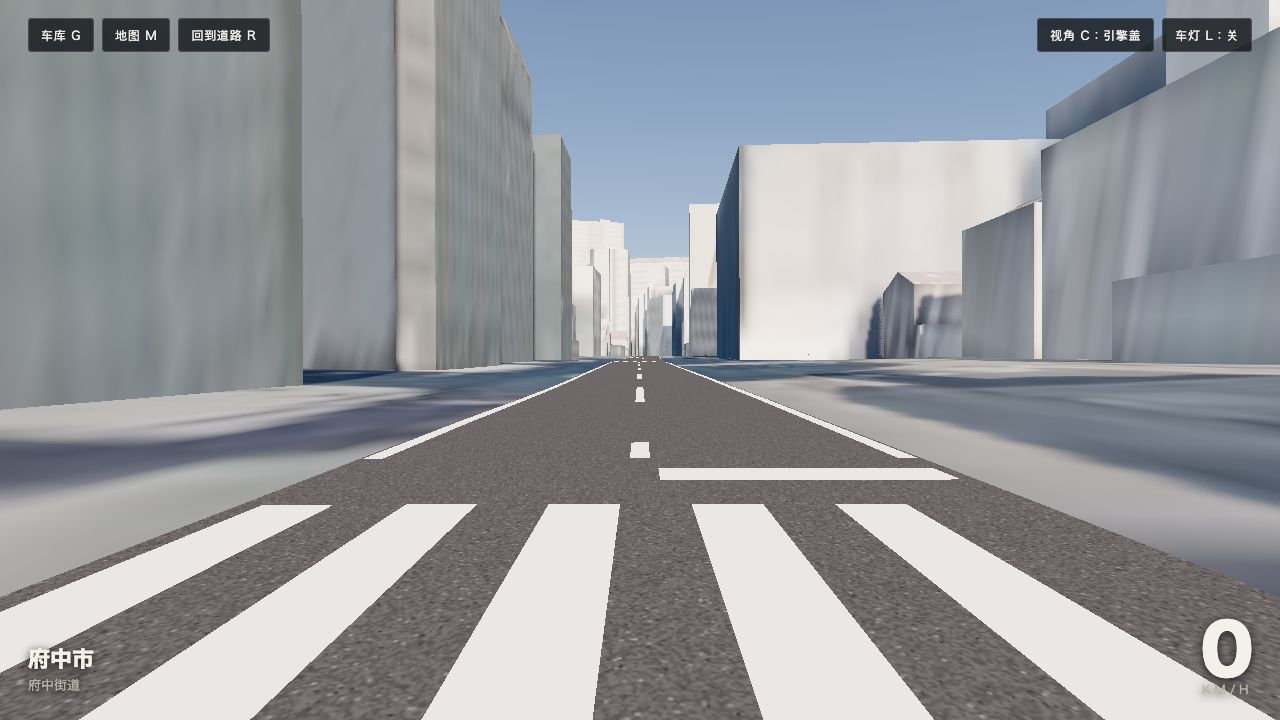
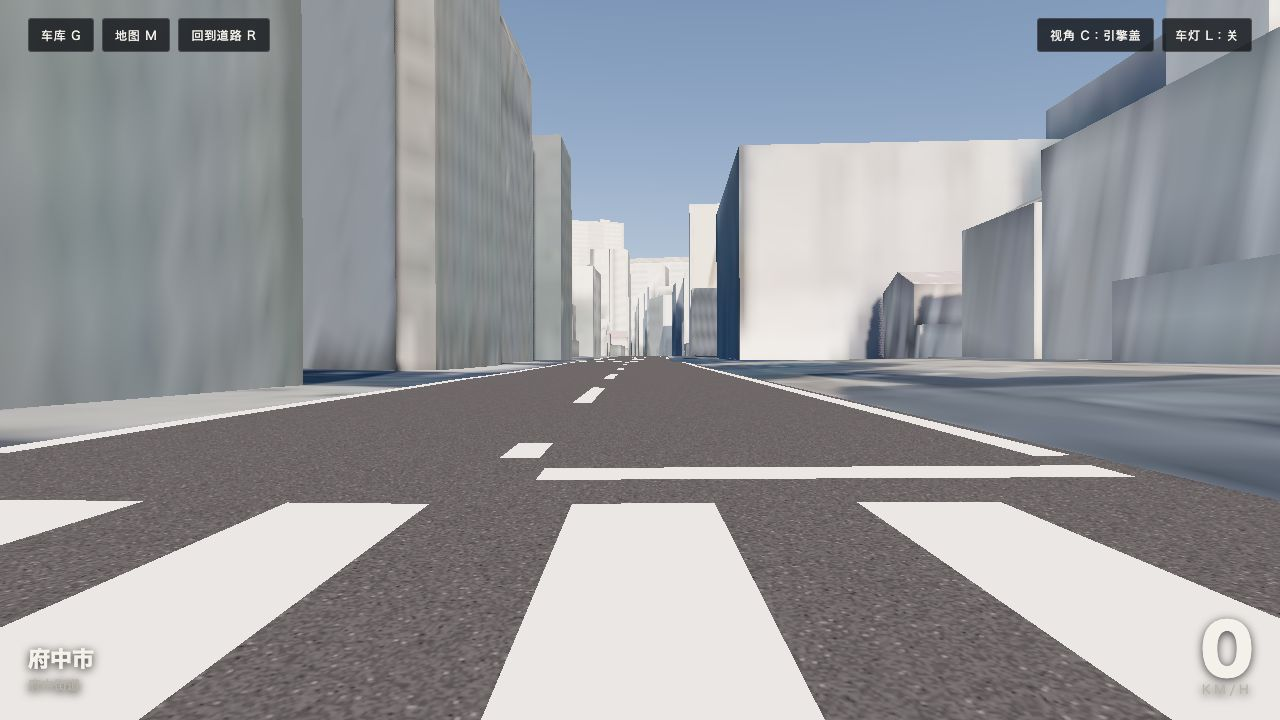
Fit road ribbons to GSI surveyed road edges
Carriageway width and lateral position now come from the Geospatial
Information Authority's experimental_fgd vector tiles (RdEdg road boundary
lines, RdCompt kerb / median lines) instead of an estimate from OSM lanes and
class. OSM remains the source for topology, names and bridge / tunnel tags;
the estimate is kept where no edge is found and on bridges / tunnels.

Measured at Fuchu (headless, 4090 samples): 94% of samples hit a surveyed
edge, 85% on both sides; mean centre correction 0.47 m, mean width 1.15x the
estimate. Regression: headless-check phase1 and roads pass.

Not done: edge tiles are fetched from GSI at runtime, not mirrored by the
download script; no automated photo-alignment check.

CLAUDE.md: section 10 updated.

Changed region(s): [[0.0, 0.4889, 1.0, 1.0], [0.3125, 0.6111, 0.75, 1.0]]

diff --git a/src/roads/RoadSurface.ts b/src/roads/RoadSurface.ts
@@ -11,6 +11,7 @@ import type { Roads, Way } from '../world/Roads';
 import type { Terrain } from '../world/Terrain';
 import type { Decks } from '../decks/Decks';
 import type { TilesManager } from '../tiles/TilesManager';
+import { RoadEdges } from './RoadEdges';
 
 const CELL = 200;         // m; geometry is batched per cell
 const BUILD_RANGE = 500;  // cells within this distance of the car are paved
@@ -26,6 +27,11 @@ interface Dense {
   rx: Float64Array; rz: Float64Array;                 // unit right vector at each sample
   yL: Float64Array; yC: Float64Array; yR: Float64Array; // heights at left edge / centre / right edge
   hw: number; total: number;
+  // surveyed cross-section per sample: lateral offset of the real carriageway centre from the
+  // OSM centreline, and its real half width (defaults: 0 and hw until fitted)
+  co: Float32Array; hwI: Float32Array;
+  rawL: Float32Array; rawR: Float32Array; rawDone: Uint8Array; fitted: Uint8Array;
+  fit: boolean; // ground-level way: eligible for edge fitting
   clear: [number, number][];                          // s-intervals without paint (junctions)
   junctions: { s: number; r: number }[];
   paveAsphalt: boolean;
@@ -58,6 +64,7 @@ export class RoadSurface {
   private dense = new Map<number, Dense | null>();
   private nodes = new Map<string, { count: number; ends: number; width: number }>();
   private roadsVersion = -1;
+  readonly edges = new RoadEdges();
   private decksVersion = -1; private lastDeckCheck = 0;
   private asphaltMat = new THREE.MeshLambertMaterial({ map: makeAsphaltTexture(), polygonOffset: true, polygonOffsetFactor: -1, polygonOffsetUnits: -4 });
   private paintMat = new THREE.MeshLambertMaterial({ vertexColors: true, polygonOffset: true, polygonOffsetFactor: -4, polygonOffsetUnits: -40 });
@@ -149,6 +156,9 @@ export class RoadSurface {
       n, xs: Float64Array.from(xs), zs: Float64Array.from(zs), s: Float64Array.from(ss),
       rx: new Float64Array(n), rz: new Float64Array(n), yL: new Float64Array(n), yC: new Float64Array(n), yR: new Float64Array(n),
       hw, total: s, clear: [], junctions: [], paveAsphalt: true,
+      co: new Float32Array(n), hwI: new Float32Array(n).fill(hw),
+      rawL: new Float32Array(n), rawR: new Float32Array(n), rawDone: new Uint8Array(n), fitted: new Uint8Array(n),
+      fit: !deckYs && !onModel,
     };
     for (let i = 0; i < n; i++) {
       const p = Math.max(0, i - 1), q = Math.min(n - 1, i + 1);
@@ -200,10 +210,48 @@ export class RoadSurface {
     return d;
   }
 
+  /** Fit the samples of a way that fall in this cell to the surveyed edge lines. */
+  private fitEdges(d: Dense, sets: Float32Array[], x0: number, z0: number, x1: number, z1: number): void {
+    const hw = d.hw, reach = Math.min(22, hw * 2.5 + 4), W = 3;
+    const raw = (i: number) => {
+      if (d.rawDone[i]) return;
+      d.rawDone[i] = 1;
+      d.rawL[i] = RoadEdges.ray(sets, d.xs[i], d.zs[i], -d.rx[i], -d.rz[i], reach);
+      d.rawR[i] = RoadEdges.ray(sets, d.xs[i], d.zs[i], d.rx[i], d.rz[i], reach);
+    };
+    const lo = Math.max(1.0, hw * 0.45), hi = Math.min(20, hw * 2.2 + 2);
+    const med = (a: Float32Array, i: number): number => {
+      const v: number[] = [];
+      for (let j = Math.max(0, i - W); j <= Math.min(d.n - 1, i + W); j++) if (a[j] === a[j]) v.push(a[j]);
+      if (v.length < 3) return NaN; // junction mouths and gaps in the survey: keep the estimate
+      v.sort((p, q) => p - q);
+      return v[v.length >> 1];
+    };
+    for (let i = 0; i < d.n; i++) {
+      if (d.fitted[i] || d.xs[i] < x0 - 6 || d.xs[i] > x1 + 6 || d.zs[i] < z0 - 6 || d.zs[i] > z1 + 6) continue;
+      for (let j = Math.max(0, i - W); j <= Math.min(d.n - 1, i + W); j++) raw(j);
+      let L = med(d.rawL, i), R = med(d.rawR, i);
+      // one side unknown: mirror the known side; both unknown: estimated width
+      if (L !== L && R !== R) { L = hw; R = hw; } else if (L !== L) L = Math.min(R, hw * 1.3); else if (R !== R) R = Math.min(L, hw * 1.3);
+      L = Math.max(lo, Math.min(hi, L)) ; R = Math.max(lo, Math.min(hi, R));
+      // keep a hand's width inside the surveyed line so the ribbon never pokes past a kerb
+      L -= 0.12; R -= 0.12;
+      d.co[i] = (R - L) / 2; d.hwI[i] = (L + R) / 2; d.fitted[i] = 1;
+      const cx = d.xs[i] + d.rx[i] * d.co[i], cz = d.zs[i] + d.rz[i] * d.co[i];
+      d.yC[i] = this.terrain.heightAt(cx, cz) + ROAD_LIFT;
+      d.yL[i] = this.terrain.heightAt(cx - d.rx[i] * d.hwI[i], cz - d.rz[i] * d.hwI[i]) + ROAD_LIFT;
+      d.yR[i] = this.terrain.heightAt(cx + d.rx[i] * d.hwI[i], cz + d.rz[i] * d.hwI[i]) + ROAD_LIFT;
+    }
+  }
+
   private buildCell(kx: number, kz: number): boolean {
     const x0 = kx * CELL, z0 = kz * CELL, x1 = x0 + CELL, z1 = z0 + CELL;
     const mx = x0 + CELL / 2, mz = z0 + CELL / 2;
     if (!this.roads.hasData(mx, mz) || !this.terrain.isReady(mx, mz)) return false;
+    // surveyed road edges for this cell (plus the reach of the fitting rays) must be in
+    const E = 45;
+    if (!this.edges.ready(x0 - E, z0 - E, x1 + E, z1 + E)) return false;
+    const edgeSets = this.edges.collect(x0 - E, z0 - E, x1 + E, z1 + E);
     const A: Buf = { pos: [], uv: [], col: [] }, P: Buf = { pos: [], uv: [], col: [] };
     let missingBridge = false;
     const m = 30; // margin: a way's ribbon can stick out of its centreline bbox
@@ -211,6 +259,7 @@ export class RoadSurface {
       if (w.tunnel || w.maxX < x0 - m || w.minX > x1 + m || w.maxZ < z0 - m || w.minZ > z1 + m) continue;
       const d = this.denseOf(w);
       if (!d) { if (w.bridge) { missingBridge = true; continue; } return false; } // ground not ready: try this cell again later
+      if (d.fit && edgeSets.length) this.fitEdges(d, edgeSets, x0, z0, x1, z1);
       this.emitWay(w, d, x0, z0, x1, z1, mx, mz, A, P);
     }
     const mk = (b: Buf, mat: THREE.Material, colors: boolean, order: number): THREE.Mesh | null => {
@@ -247,7 +296,9 @@ export class RoadSurface {
       const f = Math.max(-1, Math.min(1, o / d.hw));
       const yi = f < 0 ? d.yC[i] + (d.yL[i] - d.yC[i]) * -f : d.yC[i] + (d.yR[i] - d.yC[i]) * f;
       const yj = f < 0 ? d.yC[j] + (d.yL[j] - d.yC[j]) * -f : d.yC[j] + (d.yR[j] - d.yC[j]) * f;
-      out.push(x + rx * o - ox, yi + (yj - yi) * t + lift, z + rz * o - oz);
+      // nominal lateral position o (in the estimated cross-section) -> surveyed cross-section
+      const lat = d.co[i] + (d.co[j] - d.co[i]) * t + (o / d.hw) * (d.hwI[i] + (d.hwI[j] - d.hwI[i]) * t);
+      out.push(x + rx * lat - ox, yi + (yj - yi) * t + lift, z + rz * lat - oz);
     };
     const quad = (b: Buf, i: number, ta: number, tb: number, oL: number, oR: number, lift: number, c?: [number, number, number]) => {
       const q: number[] = [];

diff --git a/src/roads/RoadEdges.ts b/src/roads/RoadEdges.ts
@@ -1,0 +1,106 @@
+// Surveyed road edges from the Geospatial Information Authority of Japan:
+// the `experimental_fgd` vector tiles (基盤地図情報, zoom 18, public, no key)
+// carry the real road boundary lines (RdEdg 道路縁) and the lines that divide a
+// road (RdCompt 道路構成線: sidewalk kerbs, medians). The vector road layer
+// fits each carriageway between these instead of guessing a width from OSM.
+import { frame, latToTileY, lonToTileX } from '../geo/geodesy';
+
+const Z = 18;
+const REF_H = 60; // same nominal height the OSM centrelines are projected with
+export const GSI_ROAD_EDGE_TILES = 'https://cyberjapandata.gsi.go.jp/xyz/experimental_fgd/{z}/{x}/{y}.geojson';
+
+type Tile = Float32Array | null; // segments as [ax, az, bx, bz, ...]; null = unavailable
+
+export class RoadEdges {
+  private tiles = new Map<string, Tile | 'loading'>();
+  private active = 0;
+  private queue: string[] = [];
+  loaded = 0; failed = 0;
+
+  constructor(private templates: string[] = [GSI_ROAD_EDGE_TILES]) {}
+
+  private range(minX: number, minZ: number, maxX: number, maxZ: number): [number, number, number, number] {
+    // local +Z is south: (minX, minZ) is the north-west corner
+    const nw = frame.localToLla(minX, REF_H, minZ), se = frame.localToLla(maxX, REF_H, maxZ);
+    return [Math.floor(lonToTileX(nw.lon, Z)), Math.floor(latToTileY(nw.lat, Z)), Math.floor(lonToTileX(se.lon, Z)), Math.floor(latToTileY(se.lat, Z))];
+  }
+
+  /** True once every edge tile overlapping the box is loaded (or known to be missing); starts loading the rest. */
+  ready(minX: number, minZ: number, maxX: number, maxZ: number): boolean {
+    const [x0, y0, x1, y1] = this.range(minX, minZ, maxX, maxZ);
+    let ok = true;
+    for (let y = y0; y <= y1; y++) for (let x = x0; x <= x1; x++) {
+      const key = x + '/' + y, t = this.tiles.get(key);
+      if (t === undefined) { this.tiles.set(key, 'loading'); this.queue.push(key); ok = false; }
+      else if (t === 'loading') ok = false;
+    }
+    this.pump();
+    return ok;
+  }
+
+  /** Segment arrays of every loaded tile overlapping the box. */
+  collect(minX: number, minZ: number, maxX: number, maxZ: number): Float32Array[] {
+    const [x0, y0, x1, y1] = this.range(minX, minZ, maxX, maxZ), out: Float32Array[] = [];
+    for (let y = y0; y <= y1; y++) for (let x = x0; x <= x1; x++) {
+      const t = this.tiles.get(x + '/' + y);
+      if (t && t !== 'loading' && t.length) out.push(t);
+    }
+    return out;
+  }
+
+  /** Distance from (x, z) along the unit direction (dx, dz) to the nearest edge line, or NaN within `max`. */
+  static ray(sets: Float32Array[], x: number, z: number, dx: number, dz: number, max: number): number {
+    let best = max;
+    const ex = x + dx * max, ez = z + dz * max;
+    const loX = Math.min(x, ex), hiX = Math.max(x, ex), loZ = Math.min(z, ez), hiZ = Math.max(z, ez);
+    for (const s of sets) for (let i = 0; i < s.length; i += 4) {
+      const ax = s[i], az = s[i + 1], bx = s[i + 2], bz = s[i + 3];
+      if ((ax < loX && bx < loX) || (ax > hiX && bx > hiX) || (az < loZ && bz < loZ) || (az > hiZ && bz > hiZ)) continue;
+      const sx = bx - ax, sz = bz - az, den = dx * sz - dz * sx;
+      if (Math.abs(den) < 1e-9) continue;
+      const t = ((ax - x) * sz - (az - z) * sx) / den;   // along the ray
+      const u = ((ax - x) * dz - (az - z) * dx) / den;   // along the segment
+      if (t > 0.05 && t < best && u >= -0.02 && u <= 1.02) best = t;
+    }
+    return best < max ? best : NaN;
+  }
+
+  private pump(): void {
+    while (this.active < 6 && this.queue.length) {
+      const key = this.queue.shift()!;
+      this.active++;
+      void this.load(key).finally(() => { this.active--; this.pump(); });
+    }
+    // bound memory: forget the oldest tiles (they reload on demand)
+    if (this.tiles.size > 900) for (const k of this.tiles.keys()) { if (this.tiles.size <= 700) break; if (this.tiles.get(k) !== 'loading') this.tiles.delete(k); }
+  }
+
+  private async load(key: string): Promise<void> {
+    const [x, y] = key.split('/');
+    for (const tpl of this.templates) {
+      try {
+        const r = await fetch(tpl.replace('{z}', String(Z)).replace('{x}', x).replace('{y}', y));
+        if (r.status === 404) continue;
+        if (!r.ok) throw new Error('HTTP ' + r.status);
+        const j = (await r.json()) as { features: { geometry: { type: string; coordinates: any }; properties: { class?: string } }[] };
+        const seg: number[] = [], p = { x: 0, y: 0, z: 0 };
+        for (const f of j.features) {
+          const c = f.properties.class;
+          if (c !== 'RdEdg' && c !== 'RdCompt') continue;
+          const lines: number[][][] = f.geometry.type === 'LineString' ? [f.geometry.coordinates] : f.geometry.type === 'MultiLineString' ? f.geometry.coordinates : [];
+          for (const line of lines) {
+            let px = 0, pz = 0;
+            for (let k = 0; k < line.length; k++) {
+              frame.llaToLocal(line[k][1], line[k][0], REF_H, p);
+              if (k > 0) seg.push(px, pz, p.x, p.z);
+              px = p.x; pz = p.z;
+            }
+          }
+        }
+        this.tiles.set(key, Float32Array.from(seg)); this.loaded++;
+        return;
+      } catch { /* try the next source */ }
+    }
+    this.tiles.set(key, null); this.failed++; // no survey data here: the road keeps its estimated width
+  }
+}
